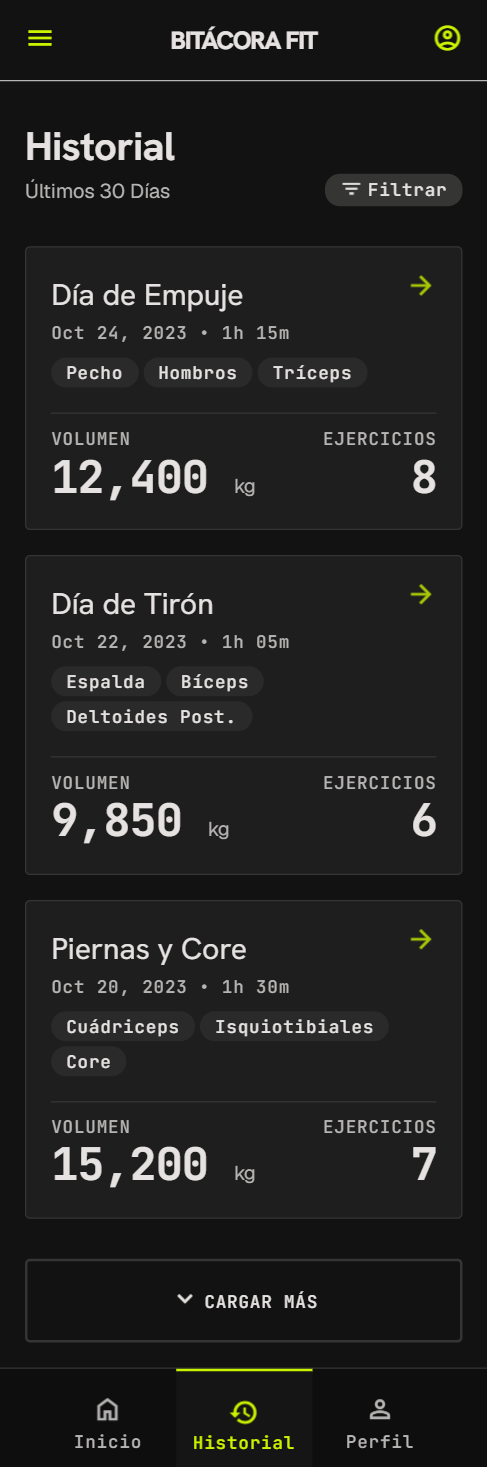
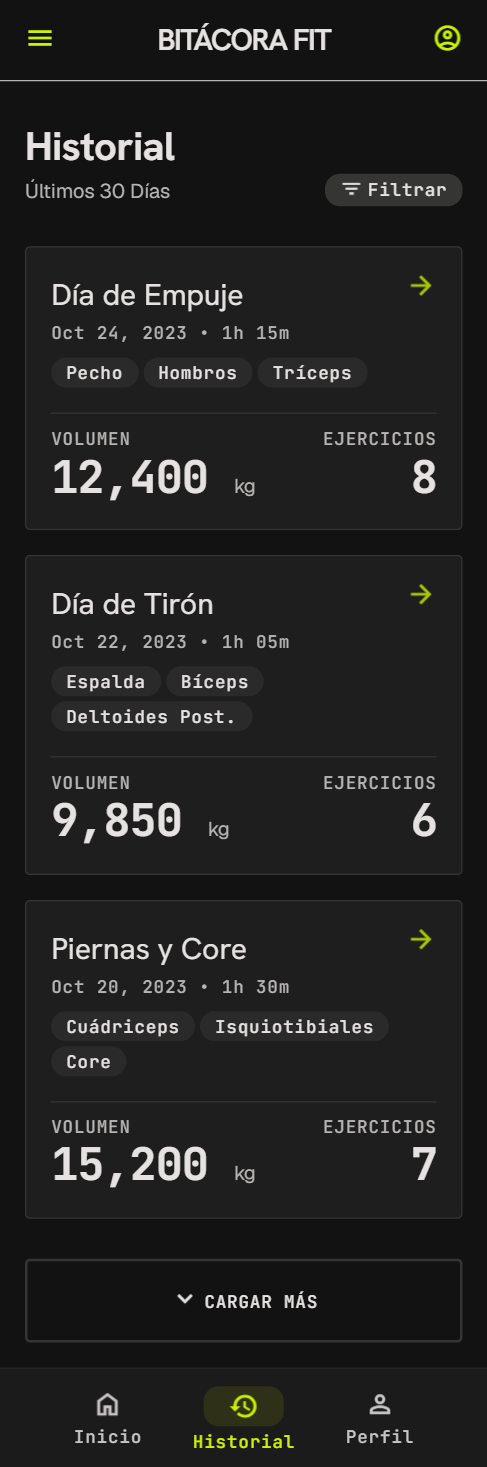
mejora en animaciones

diff --git a/components/sections/Gallery.tsx b/components/sections/Gallery.tsx
@@ -1,9 +1,14 @@
 "use client";
 
-import { useRef, useCallback } from "react";
+import { useRef, useCallback, useEffect } from "react";
 import Image from "next/image";
 import { ChevronLeft, ChevronRight } from "lucide-react";
+import { gsap } from "gsap";
+import { ScrollTrigger } from "gsap/ScrollTrigger";
 import { BASE_PATH } from "@/lib/constants";
+import { usePrefersReducedMotion } from "@/hooks/usePrefersReducedMotion";
+
+gsap.registerPlugin(ScrollTrigger);
 
 const SCREENSHOTS = [
   {
@@ -33,8 +38,41 @@ const IMG_HEIGHT = 1105;
 const SCROLL_AMOUNT = 300;
 
 export default function Gallery() {
+  const sectionRef = useRef<HTMLElement>(null);
   const trackRef = useRef<HTMLDivElement>(null);
+  const reducedMotion = usePrefersReducedMotion();
 
+  // ── Scroll reveal ───────────────────────────────────────
+  useEffect(() => {
+    const el = sectionRef.current;
+    if (!el) return;
+
+    if (reducedMotion) {
+      gsap.set(el, { opacity: 1, y: 0 });
+      return;
+    }
+
+    gsap.set(el, { opacity: 0, y: 24 });
+
+    const tween = gsap.to(el, {
+      opacity: 1,
+      y: 0,
+      duration: 0.6,
+      ease: "power2.out",
+      scrollTrigger: {
+        trigger: el,
+        start: "top 80%",
+        toggleActions: "play none none none",
+      },
+    });
+
+    return () => {
+      tween.scrollTrigger?.kill();
+      tween.kill();
+    };
+  }, [reducedMotion]);
+
+  // ── Carousel controls ───────────────────────────────────
   const scroll = useCallback((direction: "left" | "right") => {
     const track = trackRef.current;
     if (!track) return;
@@ -57,6 +95,7 @@ export default function Gallery() {
 
   return (
     <section
+      ref={sectionRef}
       id="galeria"
       className="py-section-mobile md:py-section-desktop"
     >
@@ -100,12 +139,12 @@ export default function Gallery() {
             className={[
               "flex gap-4 overflow-x-auto",
               "snap-x snap-mandatory md:snap-none",
-              "scrollbar-none",                     
+              "scrollbar-none",
               "focus-visible:outline-2 focus-visible:outline-offset-4 focus-visible:outline-accent",
               "rounded-lg",
             ].join(" ")}
           >
-            {SCREENSHOTS.map((shot) => (
+            {SCREENSHOTS.map((shot, index) => (
               <div
                 key={shot.src}
                 className={[
@@ -119,6 +158,7 @@ export default function Gallery() {
                   alt={shot.alt}
                   width={IMG_WIDTH}
                   height={IMG_HEIGHT}
+                  priority={index < 2}
                   className="block w-full h-auto"
                 />
               </div>

diff --git a/hooks/useScrollReveal.ts b/hooks/useScrollReveal.ts
@@ -1,0 +1,73 @@
+"use client";
+
+import { useEffect, useRef } from "react";
+import { gsap } from "gsap";
+import { ScrollTrigger } from "gsap/ScrollTrigger";
+
+gsap.registerPlugin(ScrollTrigger);
+
+interface ScrollRevealOptions {
+  /** CSS selector for child elements to stagger (optional). */
+  staggerSelector?: string;
+  /** Delay between staggered children in seconds. */
+  staggerDelay?: number;
+  /** Whether the user prefers reduced motion. */
+  reducedMotion: boolean;
+}
+
+/**
+ * Attaches a GSAP ScrollTrigger reveal animation to the referenced element.
+ *
+ * - Fades in from opacity 0 + translateY 24px → visible.
+ * - Fires once when the top of the element hits 80% of the viewport.
+ * - If `staggerSelector` is provided, animates matching children with stagger.
+ * - If `reducedMotion` is true, elements are shown immediately without animation.
+ */
+export function useScrollReveal<T extends HTMLElement>({
+  staggerSelector,
+  staggerDelay = 0.1,
+  reducedMotion,
+}: ScrollRevealOptions) {
+  const ref = useRef<T>(null);
+
+  useEffect(() => {
+    const el = ref.current;
+    if (!el) return;
+
+    // If user prefers reduced motion, make everything visible immediately
+    if (reducedMotion) {
+      gsap.set(el, { opacity: 1, y: 0 });
+      if (staggerSelector) {
+        gsap.set(el.querySelectorAll(staggerSelector), { opacity: 1, y: 0 });
+      }
+      return;
+    }
+
+    const targets = staggerSelector
+      ? el.querySelectorAll(staggerSelector)
+      : el;
+
+    // Set initial state
+    gsap.set(targets, { opacity: 0, y: 24 });
+
+    const tween = gsap.to(targets, {
+      opacity: 1,
+      y: 0,
+      duration: 0.6,
+      ease: "power2.out",
+      stagger: staggerSelector ? staggerDelay : 0,
+      scrollTrigger: {
+        trigger: el,
+        start: "top 80%",
+        toggleActions: "play none none none",
+      },
+    });
+
+    return () => {
+      tween.scrollTrigger?.kill();
+      tween.kill();
+    };
+  }, [reducedMotion, staggerSelector, staggerDelay]);
+
+  return ref;
+}

diff --git a/components/sections/Features.tsx b/components/sections/Features.tsx
@@ -1,5 +1,9 @@
+"use client";
+
 import { Dumbbell, Flame, Timer, History } from "lucide-react";
 import FeatureCard from "@/components/ui/FeatureCard";
+import { useScrollReveal } from "@/hooks/useScrollReveal";
+import { usePrefersReducedMotion } from "@/hooks/usePrefersReducedMotion";
 
 const FEATURES = [
   {
@@ -28,8 +32,16 @@ const FEATURES = [
 ] as const;
 
 export default function Features() {
+  const reducedMotion = usePrefersReducedMotion();
+  const sectionRef = useScrollReveal<HTMLElement>({
+    staggerSelector: "[data-feature-card]",
+    staggerDelay: 0.1,
+    reducedMotion,
+  });
+
   return (
     <section
+      ref={sectionRef}
       id="funciones"
       className="py-section-mobile md:py-section-desktop"
     >
@@ -39,14 +51,18 @@ export default function Features() {
         </h2>
 
         <div className="grid grid-cols-1 sm:grid-cols-2 gap-5">
-          {FEATURES.map((feature) => (
-            <FeatureCard
-              key={feature.title}
-              icon={feature.icon}
-              title={feature.title}
-              description={feature.description}
-            />
-          ))}
+          {FEATURES.map((feature) => {
+            const Icon = feature.icon;
+            return (
+              <div key={feature.title} data-feature-card>
+                <FeatureCard
+                  icon={<Icon className="size-8 text-accent" strokeWidth={2} aria-hidden />}
+                  title={feature.title}
+                  description={feature.description}
+                />
+              </div>
+            );
+          })}
         </div>
       </div>
     </section>

diff --git a/components/ui/FeatureCard.tsx b/components/ui/FeatureCard.tsx
@@ -1,17 +1,29 @@
-import type { LucideIcon } from "lucide-react";
+"use client";
+
+import { motion } from "motion/react";
+import type { ReactNode } from "react";
+import { usePrefersReducedMotion } from "@/hooks/usePrefersReducedMotion";
 
 interface FeatureCardProps {
-  icon: LucideIcon;
+  icon: ReactNode;
   title: string;
   description: string;
 }
 
-export default function FeatureCard({ icon: Icon, title, description }: FeatureCardProps) {
+const hoverSpring = { type: "spring" as const, stiffness: 300, damping: 20 };
+
+export default function FeatureCard({ icon, title, description }: FeatureCardProps) {
+  const reducedMotion = usePrefersReducedMotion();
+
   return (
-    <article className="flex flex-col gap-4 rounded-card bg-surface p-7 transition-transform duration-300 ease-out hover:-translate-y-1">
-      <Icon className="size-8 text-accent" strokeWidth={2} aria-hidden />
+    <motion.article
+      whileHover={reducedMotion ? { opacity: 0.9 } : { y: -4 }}
+      transition={hoverSpring}
+      className="flex flex-col gap-4 rounded-card bg-surface p-7"
+    >
+      {icon}
       <h3 className="text-base font-semibold text-foreground">{title}</h3>
       <p className="text-sm leading-relaxed text-muted">{description}</p>
-    </article>
+    </motion.article>
   );
 }

diff --git a/components/ui/DownloadButton.tsx b/components/ui/DownloadButton.tsx
@@ -1,23 +1,31 @@
+"use client";
+
+import { motion } from "motion/react";
+import { usePrefersReducedMotion } from "@/hooks/usePrefersReducedMotion";
+
 interface DownloadButtonProps {
   compact?: boolean;
 }
 
+const spring = { type: "spring" as const, stiffness: 400, damping: 25 };
+
 export default function DownloadButton({ compact = false }: DownloadButtonProps) {
+  const reducedMotion = usePrefersReducedMotion();
+
   return (
-    <a
+    <motion.a
       href="#descargar"
+      whileHover={reducedMotion ? { opacity: 0.85 } : { scale: 1.03 }}
+      whileTap={reducedMotion ? { opacity: 0.75 } : { scale: 0.97 }}
+      transition={spring}
       className={[
         "inline-flex items-center justify-center font-bold",
         "rounded-button bg-accent text-background",
-        "transition-all duration-200 ease-out",
-        "hover:opacity-85 active:opacity-75 active:scale-[0.97]",
         "focus-visible:outline-2 focus-visible:outline-offset-2 focus-visible:outline-accent",
-        compact
-          ? "px-4 py-2 text-sm"
-          : "px-6 py-3 text-base",
+        compact ? "px-4 py-2 text-sm" : "px-6 py-3 text-base",
       ].join(" ")}
     >
       {compact ? "Descargar" : "Descargar para Android"}
-    </a>
+    </motion.a>
   );
 }

diff --git a/components/sections/Header.tsx b/components/sections/Header.tsx
@@ -1,8 +1,31 @@
+"use client";
+
+import { useEffect, useState } from "react";
 import DownloadButton from "@/components/ui/DownloadButton";
 
+const SCROLL_THRESHOLD = 40;
+
 export default function Header() {
+  const [scrolled, setScrolled] = useState(false);
+
+  useEffect(() => {
+    const handleScroll = () => setScrolled(window.scrollY > SCROLL_THRESHOLD);
+    handleScroll(); // check initial state
+    window.addEventListener("scroll", handleScroll, { passive: true });
+    return () => window.removeEventListener("scroll", handleScroll);
+  }, []);
+
   return (
-    <header className="fixed top-0 left-0 right-0 z-50 bg-background/80 backdrop-blur-md border-b border-surface">
+    <header
+      className={[
+        "fixed top-0 left-0 right-0 z-50",
+        "transition-[background-color,backdrop-filter] duration-300 ease-out",
+        "border-b border-surface",
+        scrolled
+          ? "bg-background backdrop-blur-md"
+          : "bg-transparent backdrop-blur-none",
+      ].join(" ")}
+    >
       <div className="mx-auto max-w-6xl flex items-center justify-between px-5 py-3">
         <span className="text-lg font-bold tracking-tight text-foreground">
           Bitácora Fit

diff --git a/hooks/usePrefersReducedMotion.ts b/hooks/usePrefersReducedMotion.ts
@@ -1,0 +1,24 @@
+"use client";
+
+import { useEffect, useState } from "react";
+
+const QUERY = "(prefers-reduced-motion: reduce)";
+
+/**
+ * Returns `true` when the user has requested reduced motion
+ * at the OS / browser level.
+ */
+export function usePrefersReducedMotion(): boolean {
+  const [prefersReduced, setPrefersReduced] = useState(false);
+
+  useEffect(() => {
+    const mql = window.matchMedia(QUERY);
+    setPrefersReduced(mql.matches);
+
+    const handler = (e: MediaQueryListEvent) => setPrefersReduced(e.matches);
+    mql.addEventListener("change", handler);
+    return () => mql.removeEventListener("change", handler);
+  }, []);
+
+  return prefersReduced;
+}

diff --git a/components/sections/Footer.tsx b/components/sections/Footer.tsx
@@ -1,12 +1,15 @@
+import DownloadButton from "@/components/ui/DownloadButton";
+
 export default function Footer() {
   const currentYear = new Date().getFullYear();
 
   return (
     <footer className="mt-auto border-t border-surface">
-      <div className="mx-auto max-w-6xl px-5 py-8">
-        <p className="text-sm text-muted">
+      <div className="mx-auto max-w-6xl px-5 py-10 flex flex-col-reverse sm:flex-row items-center justify-between gap-6">
+        <p className="text-sm text-muted text-center sm:text-left">
           © {currentYear} Bitácora Fit. Todos los derechos reservados.
         </p>
+        <DownloadButton />
       </div>
     </footer>
   );
